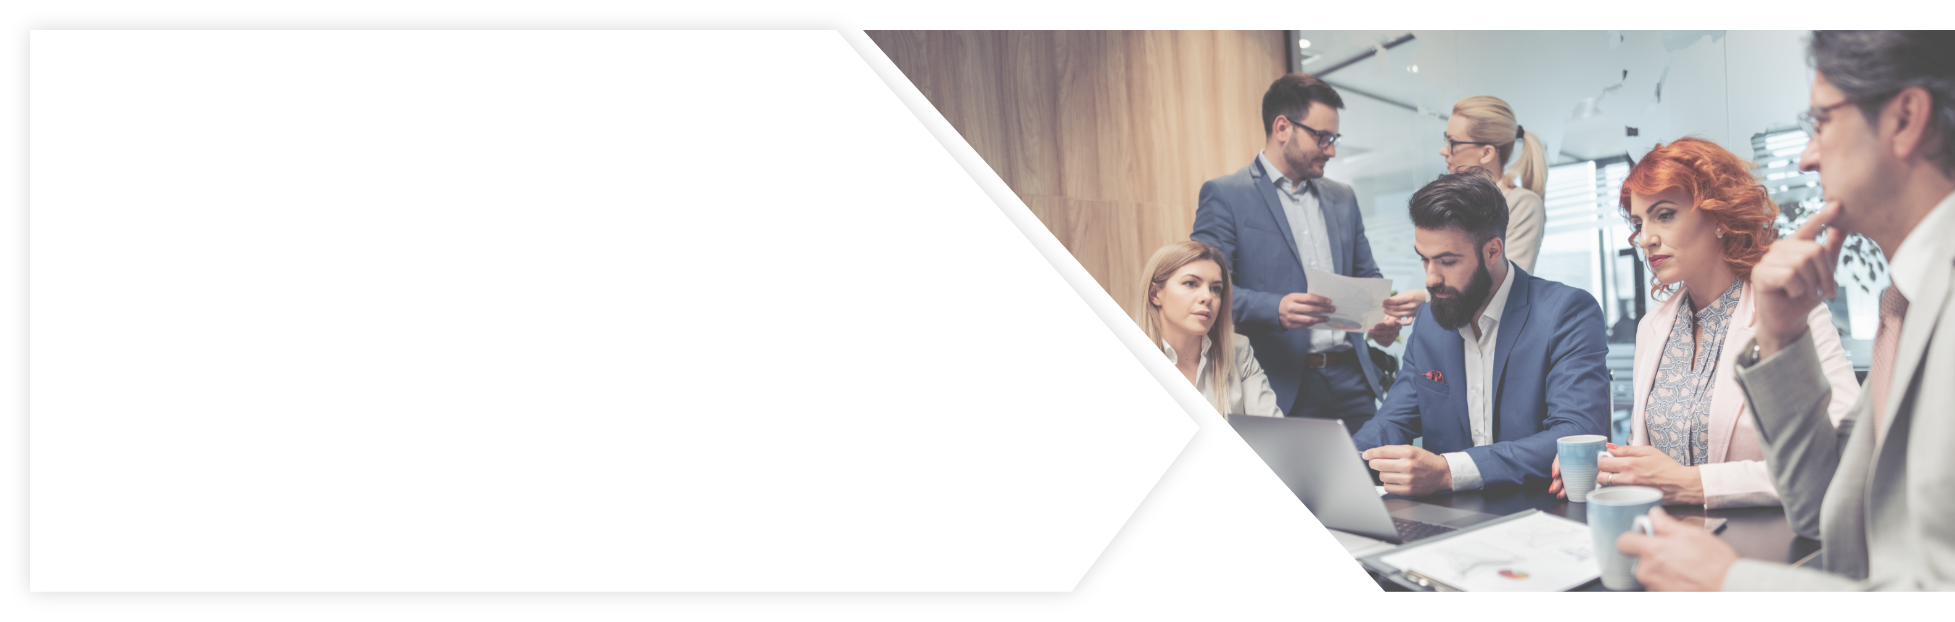
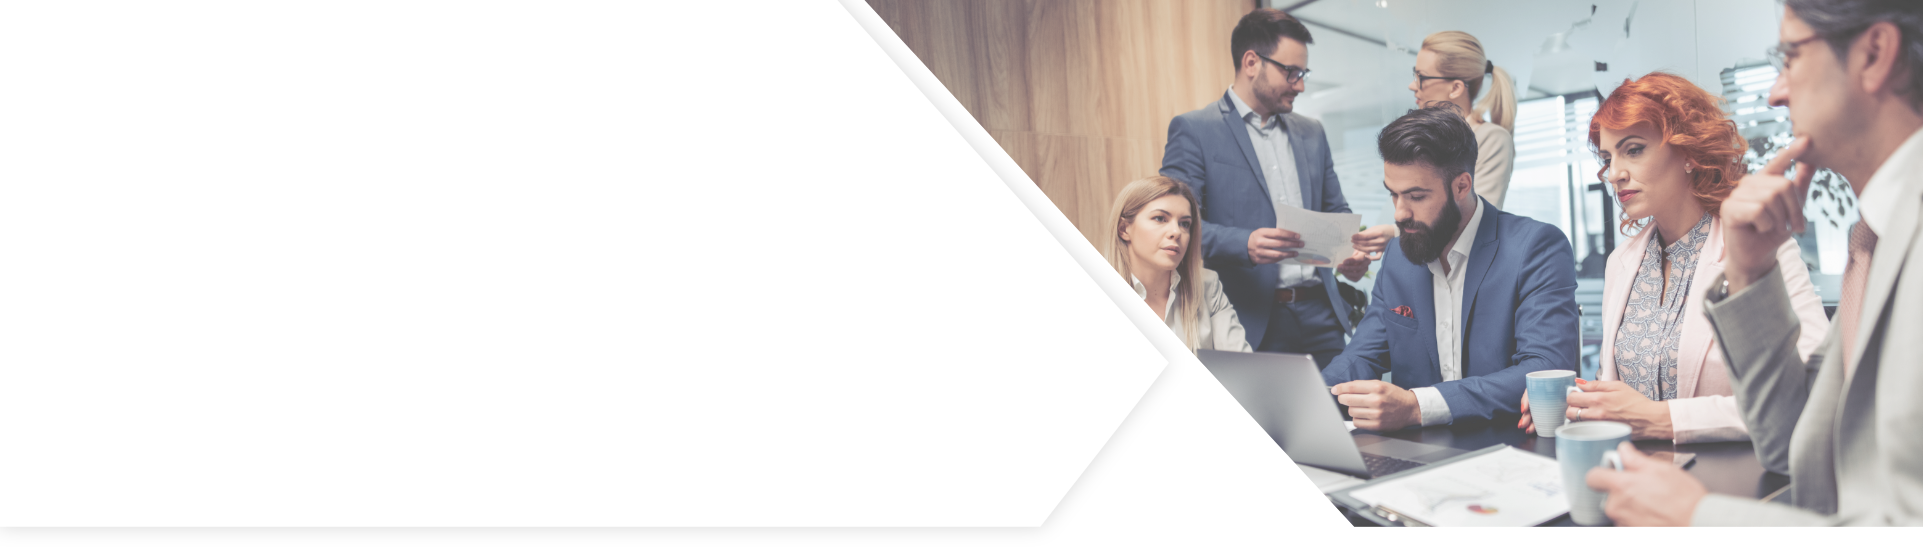
modifications in onsite , offer , privacy-policy pages.

Changed region(s): [[0.4368, 0.0, 1.0, 0.9784], [0.9672, 0.8561, 1.0, 0.8867]]

diff --git a/public/style/main.css b/public/style/main.css
@@ -4010,11 +4010,6 @@ input::-webkit-inner-spin-button {
 .onsite-banner {
   background-color: #1C2848;
 }
-.onsite-banner .banner-container {
-  display: flex;
-  flex-direction: column;
-  padding: 2rem 1rem;
-}
 .onsite-banner .banner-container h1,
 .onsite-banner .banner-container p {
   color: #FFFFFF;
@@ -4024,6 +4019,7 @@ input::-webkit-inner-spin-button {
 }
 .onsite-training {
   padding: 3rem 1.5rem;
+  padding-bottom: 1rem!important;
 }
 .onsite-training .training-container {
   display: flex;
@@ -4059,6 +4055,7 @@ input::-webkit-inner-spin-button {
 }
 .doorstep {
   padding: 3rem 1.5rem;
+  padding-bottom: 1rem!important;
 }
 .doorstep .doorstep-container {
   display: flex;
@@ -4073,13 +4070,16 @@ input::-webkit-inner-spin-button {
 .doorstep .form label {
   color: #FFFFFF;
 }
+.doorstep .form .heading {
+  padding-top: 0;
+}
 .doorstep .form input[type=checkbox] {
   background-color: #FFFFFF;
   border-radius: 0;
 }
 .doorstep .form-consent p a {
   color: #FFFFFF;
-  font-weight: bold;
+  font-size: 12   px;
 }
 .doorstep .input-container {
   background-color: #4B5773;
@@ -4265,9 +4265,6 @@ input::-webkit-inner-spin-button {
     padding: 3rem 2rem;
     padding-top: 1rem;
   }
-  .onsite-banner .banner-container {
-    padding: 2rem 0;
-  }
   .onsite-training {
     padding: 3rem 2rem;
   }
@@ -4334,7 +4331,7 @@ input::-webkit-inner-spin-button {
     background-position: right;
   }
   .onsite-banner .banner-container {
-    width: 50%;
+    width: 48%;
   }
   .onsite-training .training-container {
     flex-direction: row;
@@ -4392,10 +4389,6 @@ input::-webkit-inner-spin-button {
   }
 }
 @media (min-width : 1366px) {
-  .onsite-banner {
-    padding: 4rem 0rem;
-    padding-top: 1rem;
-  }
   .onsite-banner .banner-container {
     width: 60%;
   }
@@ -4415,7 +4408,7 @@ input::-webkit-inner-spin-button {
     padding-bottom: 0;
     margin-bottom: 4rem;
     padding-left: 5rem;
-    box-shadow: 0px 0px 10px rgba(0, 0, 0, 0.098);
+    box-shadow: 0px 0px 10px rgb(0 0 0%);
     background-image: url(../img/onsite/information-bg.png);
     background-size: auto;
     background-repeat: no-repeat;
@@ -6426,15 +6419,12 @@ input::-webkit-inner-spin-button {
   display: flex;
   flex-direction: column;
 }
-.recommend .heading {
-  padding: 0;
-}
 .recommend .recommend-info {
   display: flex;
   flex-direction: column;
+  align-items: flex-start;
 }
 .recommend p {
-  text-align: center;
   color: #FFFFFF;
 }
 .recommend input {
@@ -6445,8 +6435,7 @@ input::-webkit-inner-spin-button {
   color: #FFFFFF;
   outline: none;
   border-bottom: 2px solid #FFFFFF;
-  width: 80%;
-  align-self: center;
+  width: 100%;
 }
 .recommend ::placeholder {
   color: #FFFFFF;
@@ -6613,18 +6602,12 @@ input::-webkit-inner-spin-button {
     background-color: transparent;
     background-image: url(../img/offer/recommend-bg.png);
   }
-  .recommend .heading::before {
-    right: inherit;
-  }
-  .recommend .heading h2 {
-    text-align: left;
-  }
   .recommend .recommend-info {
     flex-direction: row;
     justify-content: space-between;
+    align-items: center;
   }
   .recommend p {
-    text-align: left;
     width: 38%;
   }
   .recommend input {
@@ -6633,6 +6616,8 @@ input::-webkit-inner-spin-button {
   }
   .recommend .buttons {
     margin-top: 0;
+    width: 24%;
+    justify-content: flex-end;
   }
   .new-bundle {
     padding: 3rem 2rem;
@@ -6718,16 +6703,6 @@ input::-webkit-inner-spin-button {
   .bundle .top-bundles {
     margin-top: 0;
     width: 45%;
-  }
-  .recommend .heading {
-    justify-content: flex-start;
-    align-items: flex-start;
-  }
-  .recommend .heading h2 {
-    text-align: left;
-  }
-  .recommend input {
-    width: 35%;
   }
   .management .bundle-info {
     width: 48%;
@@ -11077,9 +11052,6 @@ input::-webkit-inner-spin-button {
   z-index: -1;
 }
 @media (min-width : 768px) {
-  .search-banner {
-    padding-top: 1rem!important;
-  }
   .search-banner .search {
     width: 65%;
   }
@@ -11089,10 +11061,7 @@ input::-webkit-inner-spin-button {
 }
 @media (min-width : 1024px) {
   .privacy-banner {
-    background-color: transparent;
     background-image: url(../img/privacy-policy/banner-bg.png);
-    background-repeat: no-repeat;
-    background-size: 100% 100%;
   }
   .privacy-banner .banner-container {
     width: 50%;

diff --git a/public/style/less/media/offer.less b/public/style/less/media/offer.less
@@ -47,20 +47,12 @@
             padding: @sectionPadding-md;
             background-color: transparent;
             background-image: url(../img/offer/recommend-bg.png);
-            .heading{
-                &::before{
-                    right: inherit;
-                }
-                h2{
-                    text-align: left;
-                }
-            }
             .recommend-info{
                 flex-direction: row;
                 justify-content: space-between;
+                align-items: center;
             }
             p{
-                text-align: left;
                 width: 38%;
             }
             input{
@@ -69,6 +61,8 @@
             }
             .buttons{
                 margin-top: 0;
+                width: 24%;
+                justify-content: flex-end;
             }
         }
         // End recommend section
@@ -177,21 +171,6 @@
         }
     }
     // End bundle section
-
-    //Start recommend section
-    .recommend{
-        .heading{
-            justify-content: flex-start;
-            align-items: flex-start;
-            h2{
-                text-align: left;
-            }
-        }
-        input{
-            width: 35%;
-        }
-    }
-    // End recommend section
     
     // Start management section
     .management{

diff --git a/public/style/less/onsite.less b/public/style/less/onsite.less
@@ -2,9 +2,6 @@
 .onsite-banner {
     background-color: @darkblueColor;
     .banner-container {
-        display: flex;
-        flex-direction: column;
-        padding: 2rem 1rem;
         h1,p {
             color: @whiteColor;
         }
@@ -19,6 +16,7 @@
 // Start training section
 .onsite-training{
     padding: @sectionPadding;
+    padding-bottom: 1rem!important;
     .training-container{
         display: flex;
         flex-direction: column;
@@ -60,6 +58,7 @@
 // Start doorstep section
 .doorstep{
     padding: @sectionPadding;
+    padding-bottom: 1rem!important;
     .doorstep-container{
         display: flex;
         flex-direction: column;
@@ -71,6 +70,9 @@
         p,label{
             color: @whiteColor;
         }
+        .heading{
+            padding-top: 0;
+        }
         input[type=checkbox] {
             background-color: @whiteColor;
             border-radius: 0;
@@ -80,7 +82,7 @@
         p{
         a{
             color: @whiteColor;
-            font-weight: bold;
+            font-size: 12   px;
         }
     }
     }

diff --git a/public/style/less/media/onsite.less b/public/style/less/media/onsite.less
@@ -3,9 +3,6 @@
     .onsite-banner {
         padding: @sectionPadding-md;
         padding-top: 1rem;
-    .banner-container {
-        padding: 2rem 0;
-    }
     }
     // End Banner section //
 
@@ -91,7 +88,7 @@
         background-repeat: no-repeat;
         background-position: right;
         .banner-container{
-            width: 50%;
+            width: 48%;
         }
     }
     // End banner section
@@ -177,8 +174,6 @@
 @media @size-xl{
     // Start banner section
     .onsite-banner{
-        padding: @sectionPadding-xl;
-        padding-top: 1rem;
         .banner-container{
             width: 60%;
         }
@@ -205,7 +200,7 @@
         padding-bottom: 0;
         margin-bottom: 4rem;
         padding-left: 5rem;
-        box-shadow: @shadowLight;
+        box-shadow: 0px 0px 10px rgb(0 0 0 / 35%);
         background-image: url(../img/onsite/information-bg.png);
         background-size: auto;
         background-repeat: no-repeat;

diff --git a/public/style/less/offer.less b/public/style/less/offer.less
@@ -141,15 +141,12 @@
         display: flex;
         flex-direction: column;
     }
-    .heading{
-        padding: 0;
-    }
     .recommend-info{
         display: flex;
         flex-direction: column;
+        align-items: flex-start;
     }
     p{
-        text-align: center;
         color: @whiteColor;
     }
     input{
@@ -160,8 +157,7 @@
         color: @whiteColor;
         outline: none;
         border-bottom: 2px solid @whiteColor;
-        width: 80%;
-        align-self: center;
+        width: 100%;
     }
     ::placeholder{
         color: @whiteColor;

diff --git a/public/style/less/media/privacypolicy.less b/public/style/less/media/privacypolicy.less
@@ -1,7 +1,6 @@
 @media @size-md{
     // Start privacy-banner section
     .search-banner{
-        padding-top: 1rem!important;
         .search{
             width: 65%;
         }
@@ -21,10 +20,7 @@
     
         // Start privacy-banner section
         .privacy-banner{
-            background-color: transparent;
             background-image: url(../img/privacy-policy/banner-bg.png);
-            background-repeat: no-repeat;
-            background-size: 100% 100%;
             .banner-container{
                 width: 50%;
                 h1,p{

diff --git a/resources/views/onsite.blade.php b/resources/views/onsite.blade.php
@@ -2,7 +2,7 @@
 @section("content")
 
 <!-- Start Banner Section -->
-<section class="flex-container onsite-banner">
+<section class="flex-container banner onsite-banner">
     <div class="container">
         @include("layouts.navbar")
         <div class="banner-container">
@@ -12,7 +12,7 @@
                 <ul>
                     <li><a href="">Home</a></li>
                     <li><img src="{{url('img/master/breadcrum-arrow.svg')}}" alt="arrow" class="white"></li>
-                    <li><a href="">Contact</a></li>
+                    <li><a href="">Onsite</a></li>
                 </ul>
             </div>
         </div>

diff --git a/resources/views/offer.blade.php b/resources/views/offer.blade.php
@@ -144,7 +144,7 @@
 <section class="flex-container recommend">
     <div class="container">
         <div class="recommend-container">
-            <div class="heading center-heading white-heading">
+            <div class="heading white-heading">
                 <h2>Stay in Touch</h2>
             </div>
             <div class="recommend-info">
